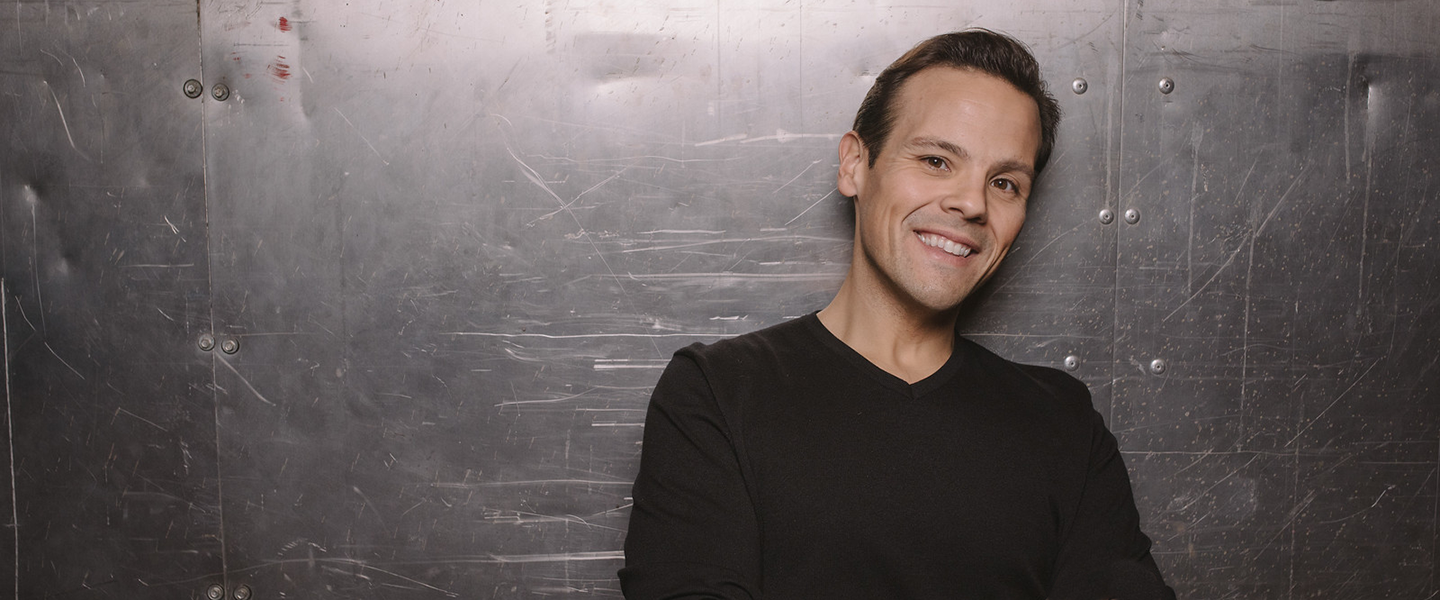
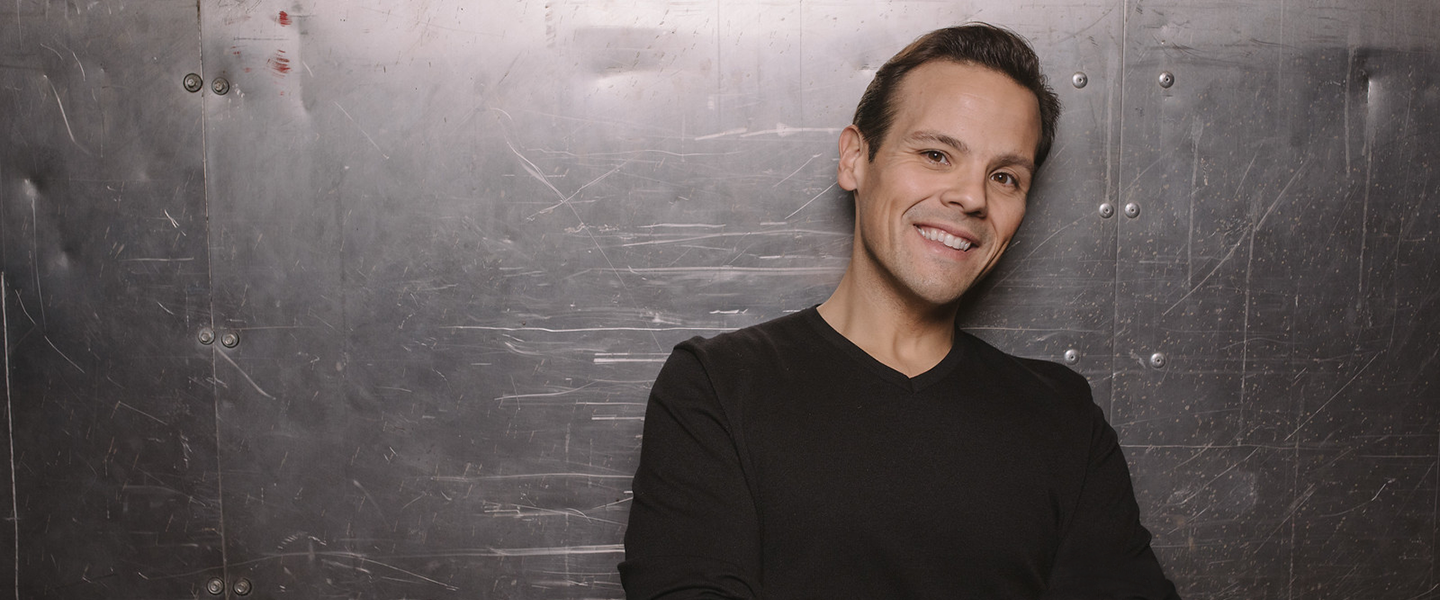
adds new images for carousel, bio, and footer

diff --git a/biography.html b/biography.html
@@ -13,7 +13,7 @@ quote3-link: https://twitter.com/elportillo/status/675302044358586368
 	<div class="container">
 		<div class="row">
 			<div class="col-md-8">
-				<img src="{{ site.baseurl }}/images/bio_pic.png" alt="bio pic" class="img-responsive">
+				<img src="{{ site.baseurl }}/images/bio_pic2.png" alt="bio pic" class="img-responsive">
 			</div>
 			<div class="col-md-4">
 				<h2 class="text-center bio-name">David Portillo</h2>

diff --git a/_sass/_footer.scss b/_sass/_footer.scss
@@ -1,7 +1,7 @@
 //SUBFOOTER
 .subfooter {
 	@extend .bg-img;
-	background-image: url('../images/subfooter-bg.png');
+	background-image: url('../images/subfooter-bg2.png');
 	height: 500px;
 	text-align: center;
     color: white;
